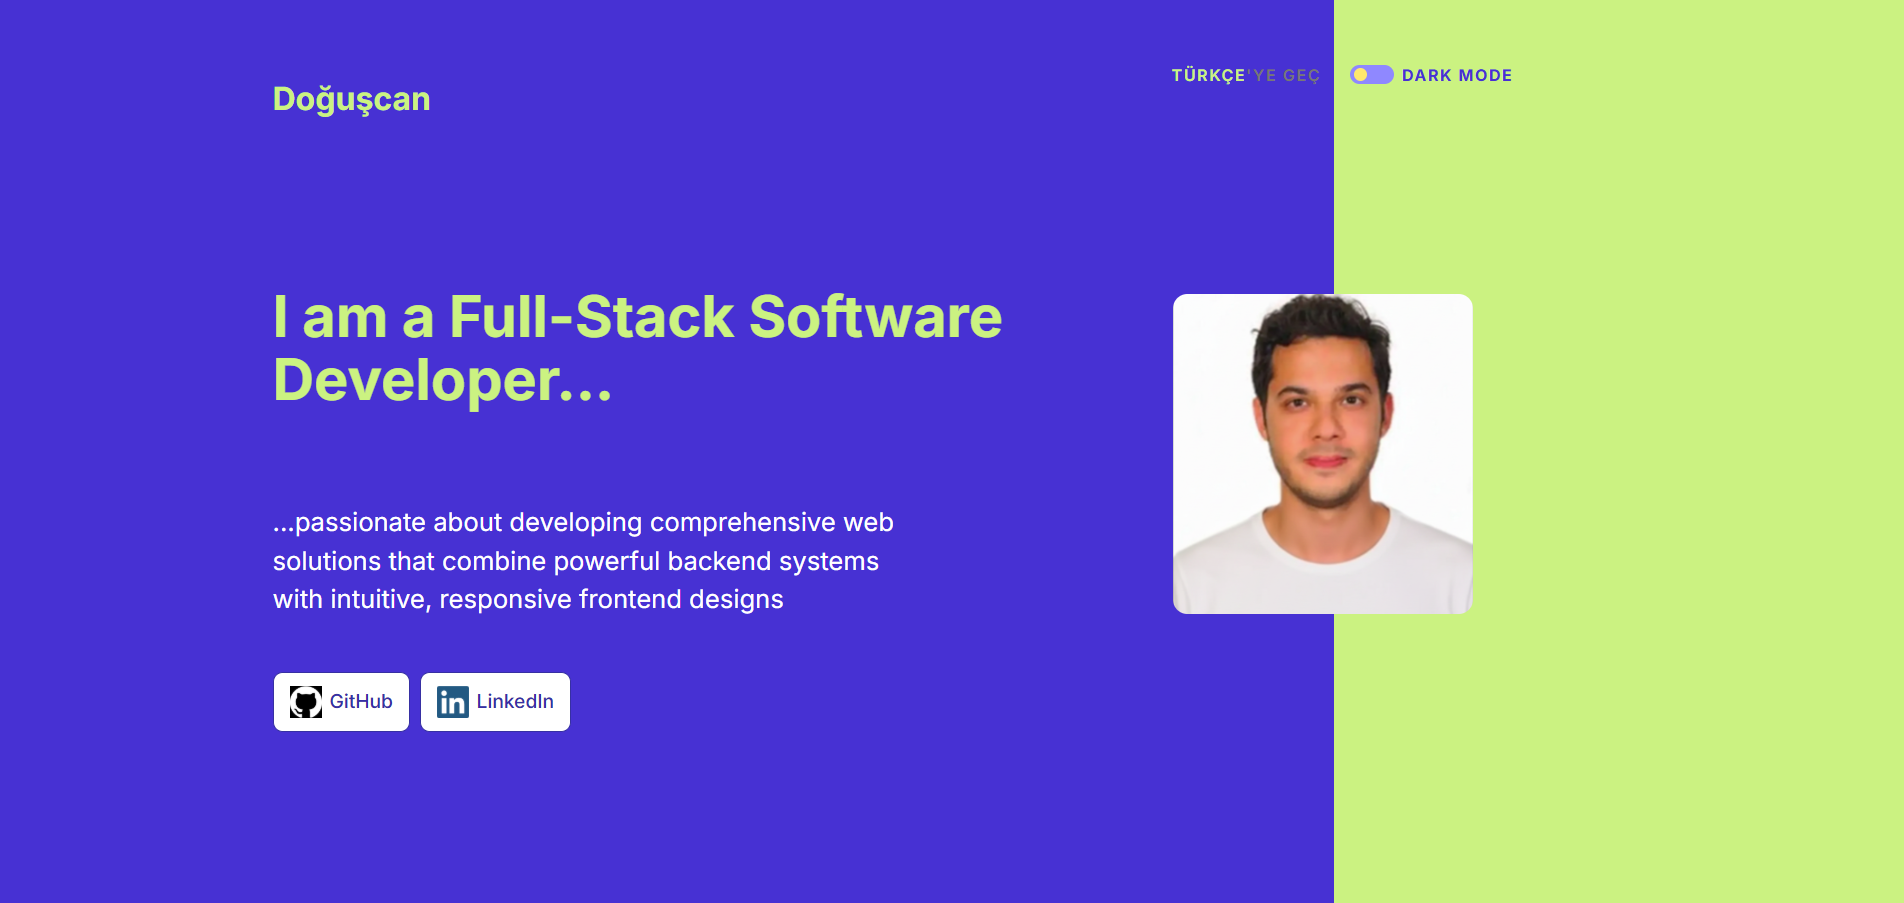
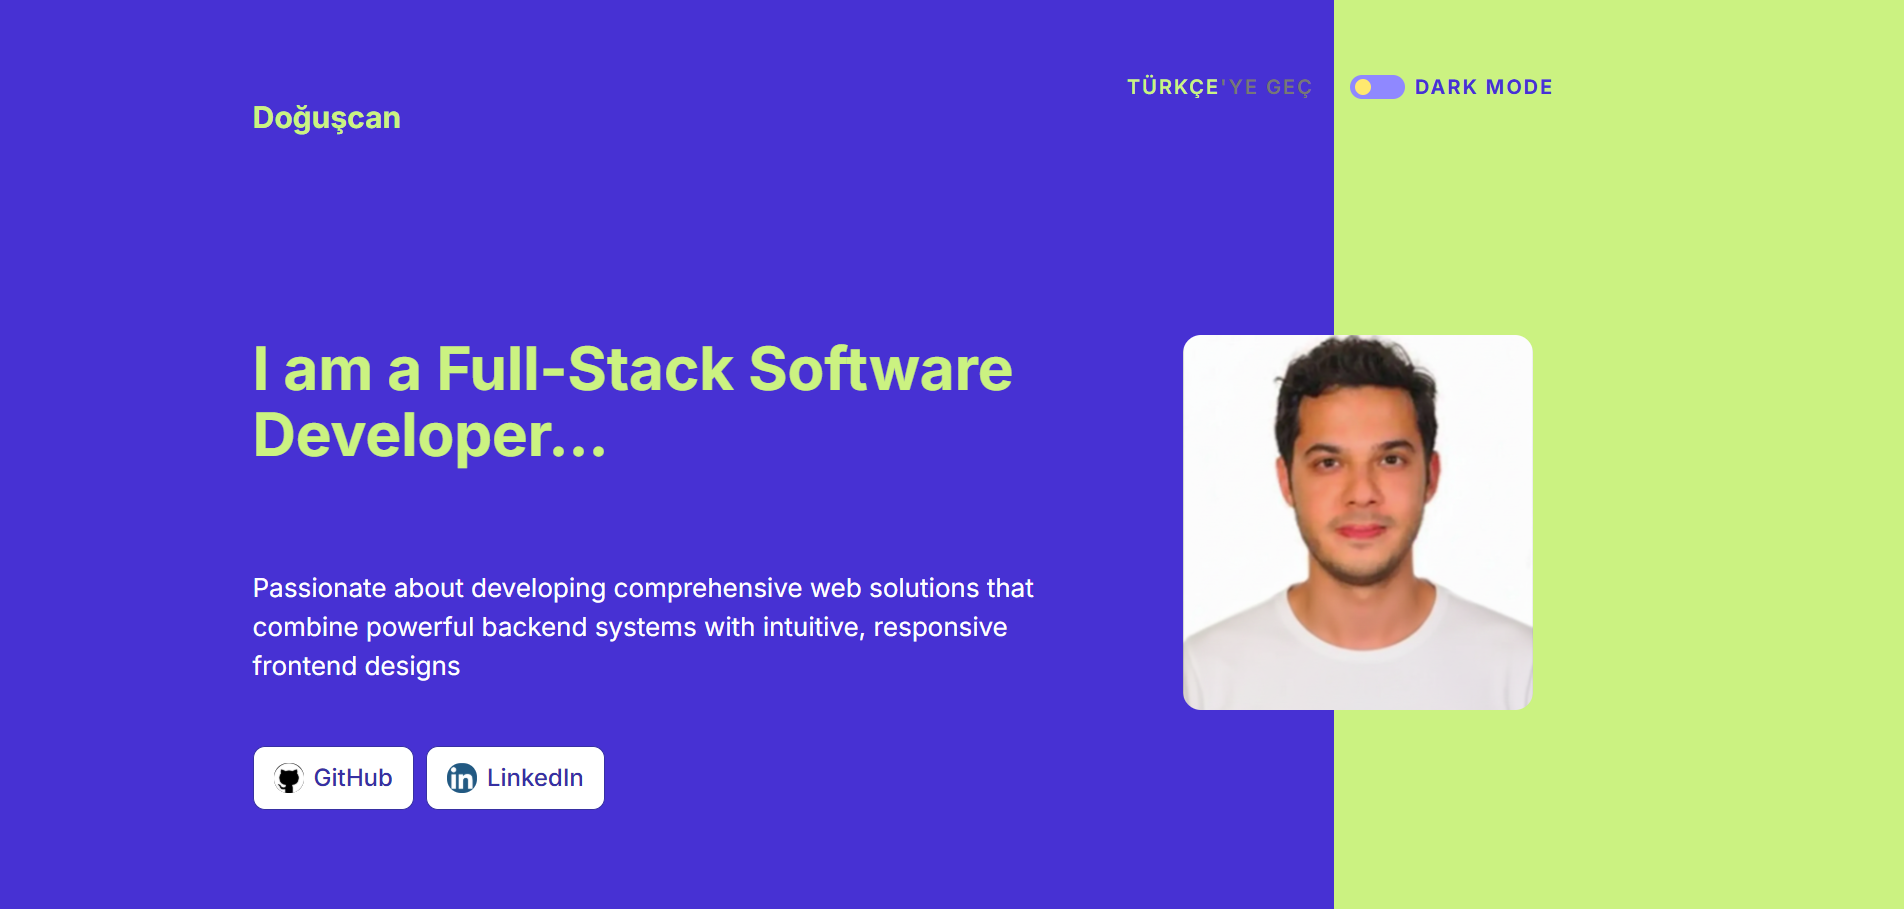
fix: design

diff --git a/src/components/Hero.jsx b/src/components/Hero.jsx
@@ -23,11 +23,11 @@ const Hero = () => {
       <div className="flex justify-between items-start">
         <div className="flex flex-col gap-[35px]">
           {/* ==================================== BAŞLIK ==================================== */} 
-          <h1 className="text-[72px] font-[700] leading-[1.1] text-[#CBF281] m-0 font-inter antialiased">
+          <h1 className="text-[60px] font-[700] leading-[1.1] text-[#CBF281] m-0 font-inter antialiased">
             {titleParts[0]?.trim()} <br /> {separator}
           </h1>
           {/* ==================================== AÇIKLAMA ==================================== */}
-          <p className="text-white font-normal text-[32px] leading-[1.5] m-0 font-inter antialiased max-w-[820px]">
+          <p className="text-white font-normal text-[26px] leading-[1.5] m-0 font-inter antialiased max-w-[820px]">
             {heroData.description}
           </p>
           {/* ==================================== LİNK BUTONLARI ==================================== */}
@@ -43,7 +43,7 @@ const Hero = () => {
                 <img 
                   src={btn.text === "GitHub" ? githubIcon : linkedinIcon} 
                   alt={btn.text} 
-                  className="w-[40px] h-[40px] object-contain block" 
+                  className="w-[30px] h-[30px] rounded-[14px] object-contain block" 
                 />
                 <span className="leading-none">{btn.text}</span>
               </a>
@@ -51,7 +51,7 @@ const Hero = () => {
           </div>
         </div>
         {/* ==================================== GÖRSEL ALANI ==================================== */}
-        <div className="relative w-[375px] h-[400px] shrink-0 translate-x-[-200px] translate-y-[60px]">
+        <div className="relative w-[350px] h-[375px] shrink-0 translate-x-[-120px] translate-y-[40px]">
           <img 
             src={profilImg} 
             alt="Profile"

diff --git a/src/components/Profile.jsx b/src/components/Profile.jsx
@@ -9,12 +9,12 @@ const Profile = () => {
   return (
     <section className={`w-full pt-[40px] pb-[80px] ${darkMode ? 'bg-[#171043]' : 'bg-[#4731D3]'}`}>
       {/* ==================================== BAŞLIK ==================================== */}
-      <div className="max-w-[1700px] mx-auto px-6 lg:px-12">
+      <div className="max-w-[1400px] mx-auto px-6 lg:px-12">
         <h2 className="text-[64px] font-bold text-[#CBF281] mb-[60px] font-inter tracking-tight">
           {content.profile.title}
         </h2>
         {/* ==================================== TEMEL BİLGİLER ==================================== */}  
-        <div className="grid grid-cols-[1.1fr_450px_1.3fr] gap-[100px] items-start">
+        <div className="grid grid-cols-[1.1fr_450px_1.3fr] gap-[50px] items-start">
           <div className="flex flex-col gap-[15px]">
             <h3 className="text-[36px] text-white mb-[25px] font-medium font-inter leading-none -mt-[8px]">
               {content.profile.basicInfoTitle}
@@ -35,10 +35,10 @@ const Profile = () => {
           </div>
           {/* ==================================== HAKKIMDA YAZISI ==================================== */} 
           <div className="flex flex-col pl-[60px]"> 
-            <h3 className="text-[36px] text-white mb-[25px] font-medium font-inter leading-none -mt-[8px]">
+            <h3 className="text-[36px] text-white mb-[10px] font-medium font-inter leading-none -mt-[4px]">
               {content.profile.aboutTitle}
             </h3>
-            <p className="text-white text-[22px] leading-[1.6] font-light opacity-95 max-w-[450px]">
+            <p className="text-white text-[22px] leading-[1.6] font-light opacity-95 max-w-[750px]">
               {content.profile.description}
             </p>
           </div>

diff --git a/src/components/Skills.jsx b/src/components/Skills.jsx
@@ -9,7 +9,7 @@ const Skills = () => {
     <section className={`w-full py-[80px] border-b transition-colors duration-300 ${
       darkMode ? 'bg-[#1A210B] border-[#BAB2E7]/10' : 'bg-white border-[#BAB2E7]'
     }`}>
-      <div className="max-w-[1700px] mx-auto px-6 lg:px-12">
+      <div className="max-w-[1400px] mx-auto px-6 lg:px-12">
         <div className="flex flex-row items-start justify-between">
           {/* ==================================== BAŞLIK ==================================== */} 
           <div className="w-[30%]">
@@ -20,7 +20,7 @@ const Skills = () => {
             </h2>
           </div>
           {/* ==================================== YETENEKLER LİSTESİ ==================================== */}
-          <div className="w-[70%] grid grid-cols-2 gap-x-[120px] gap-y-[60px] mt-[50px]">
+          <div className="w-[90%] grid grid-cols-2 gap-x-[120px] gap-y-[60px] mt-[50px]">
             {content.skills.map((skill) => (
               <div key={skill.name} className="flex items-center gap-12">
                 <div className="w-[120px] h-[120px] flex-shrink-0 mr-[40px]">

diff --git a/src/components/Projects.jsx b/src/components/Projects.jsx
@@ -15,7 +15,7 @@ const Projects = () => {
       darkMode ? 'bg-[#1A210B]' : 'bg-[#CBF281]'
     }`}>
       {/* ==================================== TEMAYA GÖRE DÜZENLEME ==================================== */}
-      <div className="max-w-[1700px] mx-auto px-6 lg:px-12">
+      <div className="max-w-[1400px] mx-auto px-6 lg:px-12">
         <h2 className={`text-[60px] font-extrabold mb-[60px] font-inter tracking-tight ${
           darkMode ? 'text-[#CBF281]' : 'text-[#4731D3]'
         }`}>
@@ -33,7 +33,7 @@ const Projects = () => {
               }`}
             >
               {/* ==================================== PROJE GÖRSELLERİ ==================================== */}
-              <div className="flex-shrink-0 w-2/5 relative min-h-[400px]">
+              <div className="flex-shrink-0 w-2/5 relative min-h-[100px]">
                 <img 
                   src={projectImages[index]} 
                   alt={project.title} 

diff --git a/src/components/Header.jsx b/src/components/Header.jsx
@@ -8,12 +8,12 @@ const Header = () => {
     <header className="flex justify-between items-center w-full relative z-50">
       
       {/* ========================== SOL BÖLÜM // İSİM ========================== */}
-      <div className="font-[700] text-[40px] text-[#CBF281] font-inter mt-[60px] md:mt-8">
+      <div className="font-[700] text-[30px] text-[#CBF281] font-inter mt-[60px] md:mt-8">
         Doğuşcan
       </div>
 
       {/* ========================== SAĞ BÖLÜM // DİL VE TEMA ========================== */}
-      <div className="flex items-center justify-center gap-[30px] w-[43%] md:w-[30%] min-w-max">
+      <div className="flex items-center justify-center gap-[30px] w-[45%] md:w-[30%] min-w-max">
         
         {/* Dil */}
         <button

diff --git a/src/App.jsx b/src/App.jsx
@@ -31,10 +31,10 @@ function App() {
           <div className={`w-[70%] h-full ${darkMode ? 'bg-[#171043]' : 'bg-[#4731D3]'}`}></div>
           <div className={`w-[30%] h-full ${darkMode ? 'bg-[#1a103d]' : 'bg-[#CBF281]'}`}></div>
         </div>
-          <div className="relative z-10 w-full max-w-[1700px] mx-auto px-6 md:px-20 lg:px-32 pt-[40px]">
+          <div className="relative z-10 w-full max-w-[1400px] mx-auto px-6 md:px-20 lg:px-32 pt-[40px]">
             <Header />
           </div>
-          <div className="relative z-10 w-full max-w-[1700px] mx-auto px-6 md:px-20 lg:px-32 pt-[100px]">
+          <div className="relative z-10 w-full max-w-[1400px] mx-auto px-6 md:px-20 lg:px-32 pt-[100px]">
             <Hero />
           </div>
         </div>
